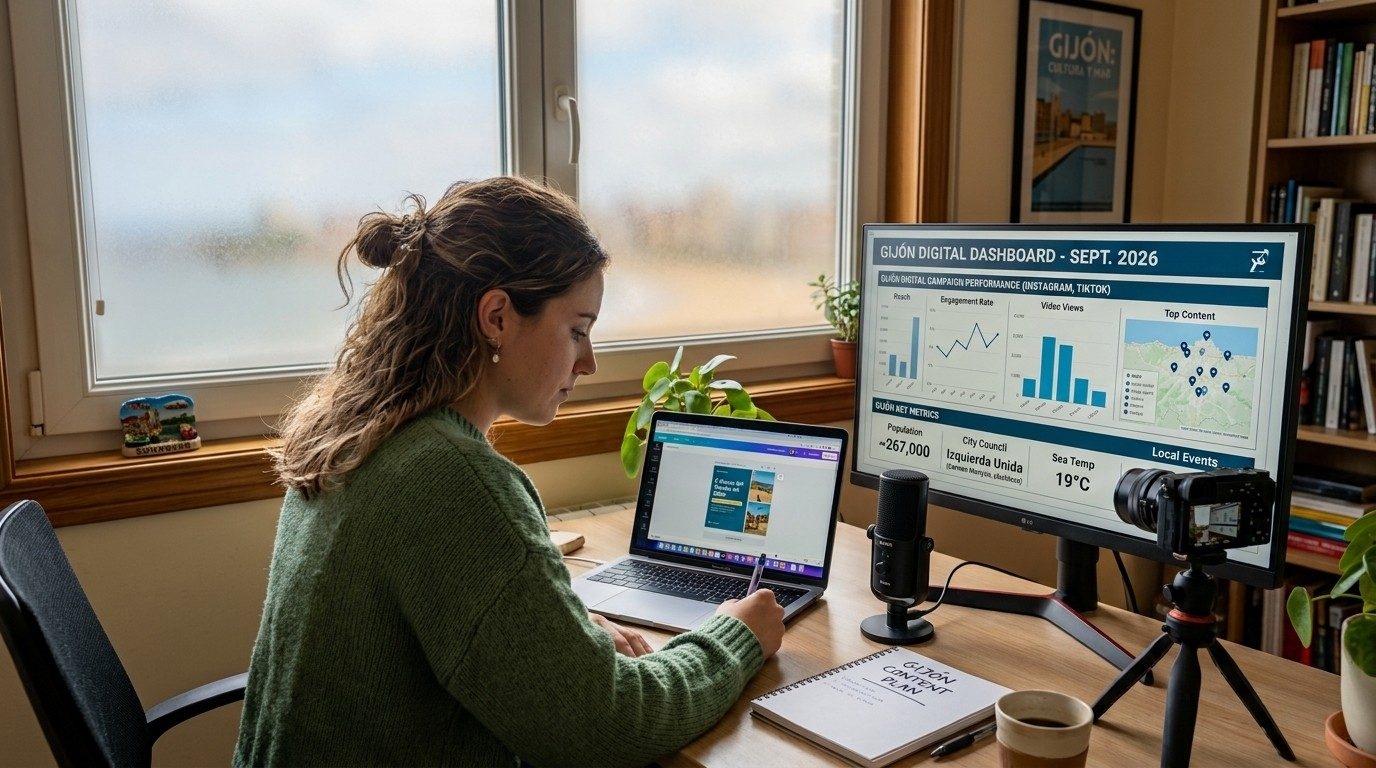
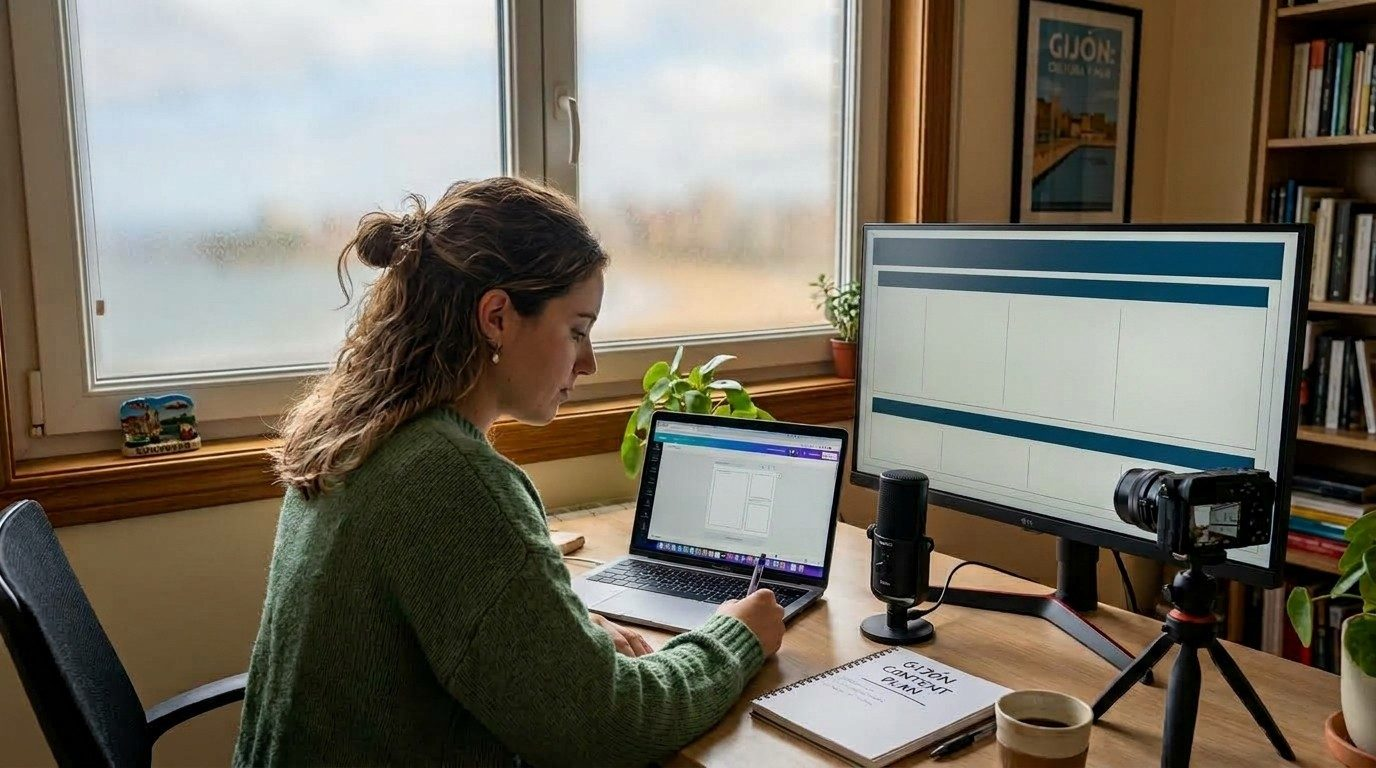
Nueva foto principal en marketing de afiliados
Sustituye la foto cuya pantalla mostraba el nombre de un partido político.

Claude-Session: https://claude.ai/code/session_01V3q5MkkwWAXc6o82RkajKT

diff --git a/docs/marketing-de-afiliados/index.html b/docs/marketing-de-afiliados/index.html
@@ -60,7 +60,7 @@
     </div>
   </div>
   <figure class="hero-fig">
-    <div class="slot slot-hero"><img src="../assets/img/afiliados-hero.jpg" style="object-position:38% 35%" alt="Creadora de contenido trabajando junto a un panel de métricas" fetchpriority="high"></div>
+    <div class="slot slot-hero"><img src="../assets/img/afiliados-hero.jpg" style="object-position:38% 35%" alt="Creadora de contenido trabajando en su escritorio, con micrófono y cámara" fetchpriority="high"></div>
     <figcaption class="facts">
       <span><span class="k">MODALIDAD</span><span class="v">Remoto</span></span>
       <span><span class="k">INFORME</span><span class="v">Mensual</span></span>

diff --git a/docs/en/affiliate-marketing/index.html b/docs/en/affiliate-marketing/index.html
@@ -60,7 +60,7 @@
     </div>
   </div>
   <figure class="hero-fig">
-    <div class="slot slot-hero"><img src="../../assets/img/afiliados-hero.jpg" style="object-position:38% 35%" alt="Content creator working next to a metrics dashboard" fetchpriority="high"></div>
+    <div class="slot slot-hero"><img src="../../assets/img/afiliados-hero.jpg" style="object-position:38% 35%" alt="Content creator working at her desk with a microphone and camera" fetchpriority="high"></div>
     <figcaption class="facts">
       <span><span class="k">FORMAT</span><span class="v">Remote</span></span>
       <span><span class="k">REPORT</span><span class="v">Monthly</span></span>
